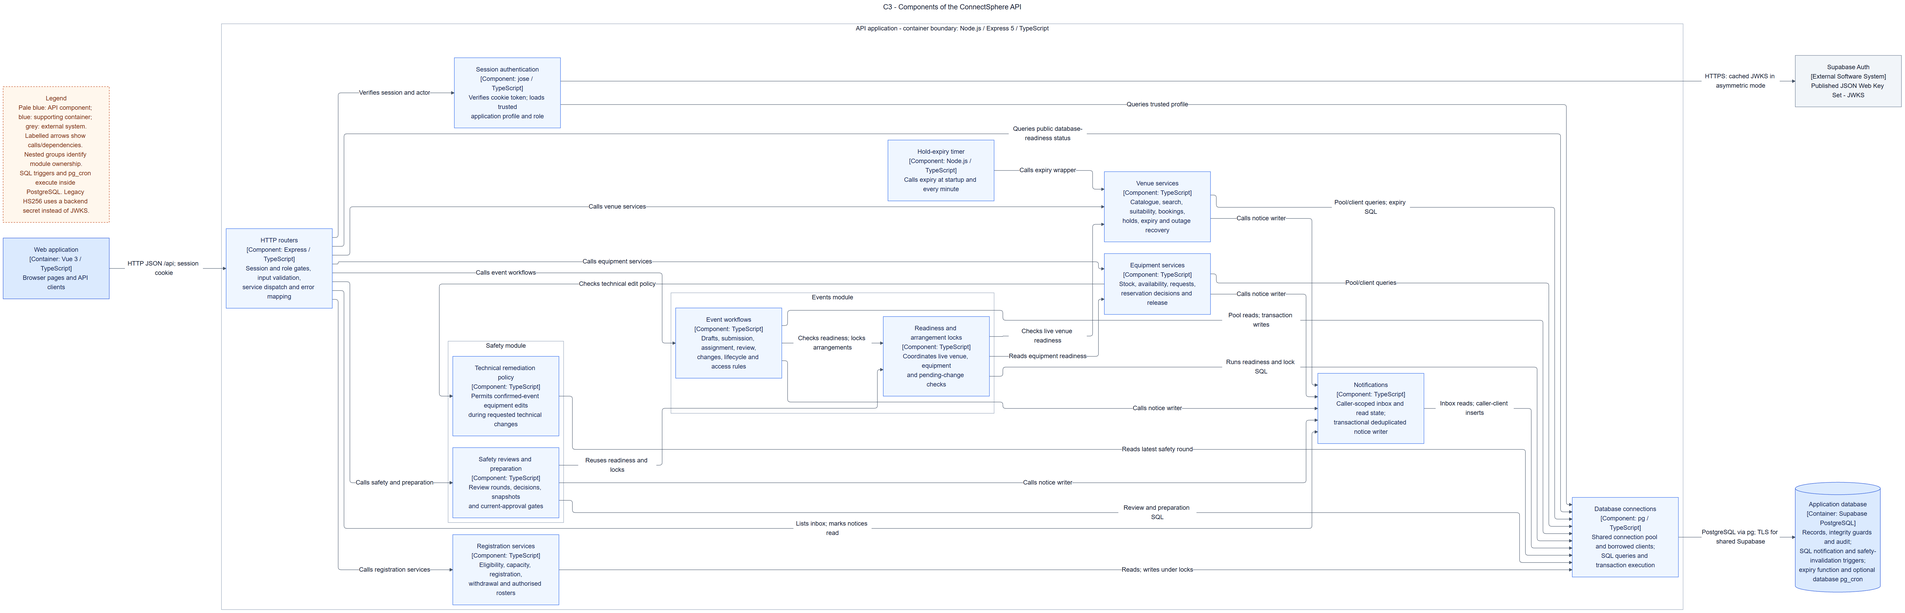
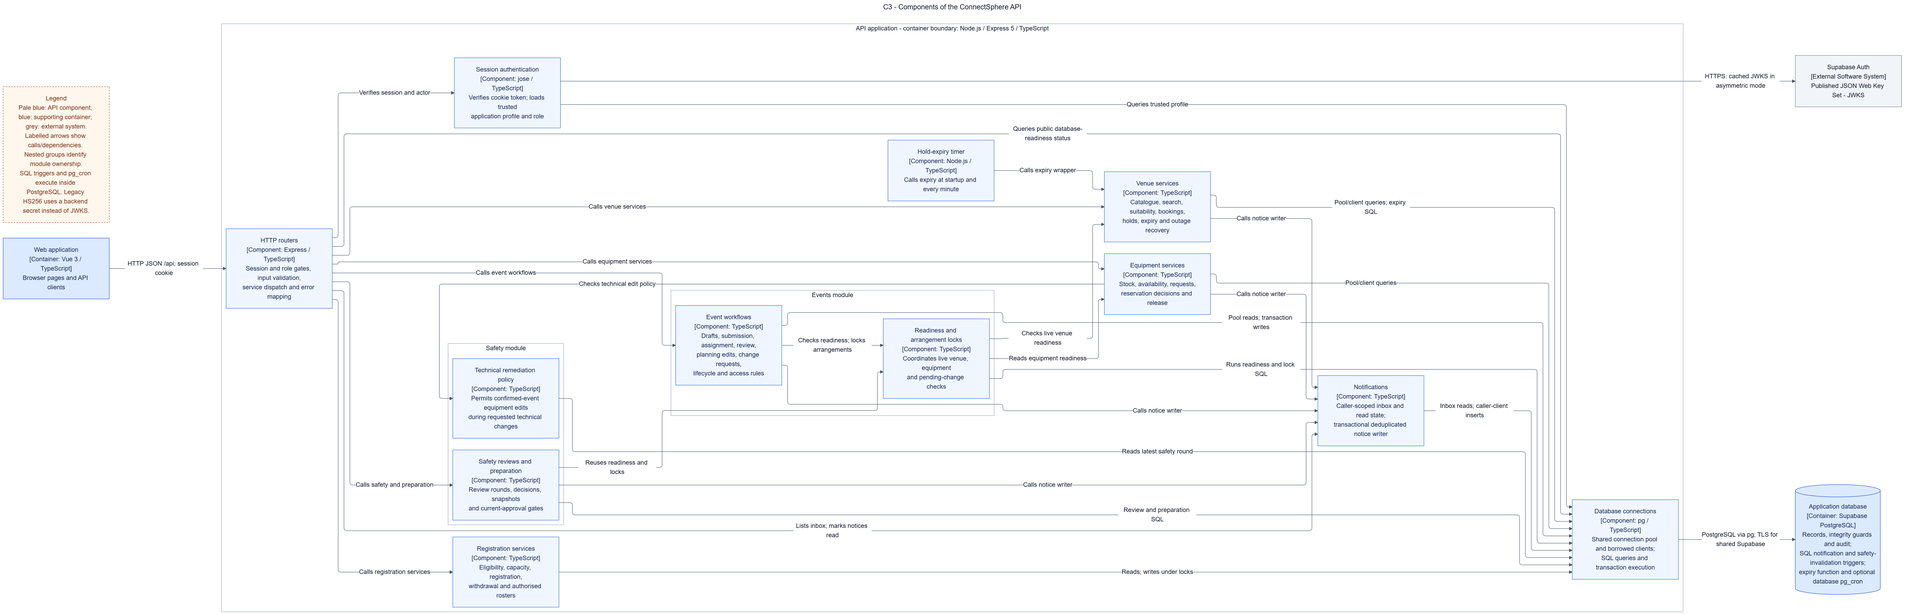
docs(WS2): restructure design report and name change requests in C3
Independent WS2 review of Arvin's package against the Week 4 System
design rubric. Diagrams, API contract and data model were verified
against fb6d8d9 and migrations 001-023 and are unchanged except C3.

- Move the decisions table out of the collapsed historical section
  into a current "Design decisions and trade-offs" section after C3
- Add "Design principles and patterns" with code references
- Add "Customer changes and design impact" for CR-1 to CR-6
- Add "Team input needed" design review fields (DOC-201)
- Add a reading guide; move dated history blocks to the end
- C3: name planning edits and change requests; re-render PNG/SVG
  with c4-audit-20261105/render.py (Mermaid CLI 11.17.1)
- Fix the broken S3-E30 evidence link; note the full ERD shows key
  columns only

diff --git a/docs/architecture/README.md b/docs/architecture/README.md
@@ -2,18 +2,7 @@
 
 **Current implementation — reviewed 6 November 2026.** The current branch implements all seven application roles and the event lifecycle from draft submission through assignment, review, arrangements, confirmation, safety/preparation, registration, cancellation and completion. The views below describe the mounted application in `backend/src/app.ts` and `frontend/src/app/router.ts`; they do not establish story acceptance or code-freeze readiness. Migration 023 adds permanent safety-approval invalidation and supplemental context baselines. Its shared application and the three focused connected regression checks passed on 1 November in `MAN-20261101-03`; see the [rollout checkpoint](../../database/README.md#1-november-2026--shared-023-rollout-and-connected-retests). See the [API contract](api-contract.md), [current database model](../database-diagram.md), and [test evidence](../testing/test-evidence.md) for the separate automated, connected and release-review boundaries.
 
-<details>
-<summary>Earlier implementation checkpoints — retained as dated history</summary>
-
-**Current implementation — 25 October 2026.** Lead assignment/reassignment and notification integration, strict search/draft validation, catalogue repair, buffers, outage recovery and holds are implemented. The current closeout branch repairs confirmed-event replacement controls, outage/hold concurrency, PostgreSQL date bounds and Singapore/buffer-warning displays. The shared venue gate is documented below. Shared migration 013 is verified; the approved Supabase expiry job is enabled and successful runs observed. Earlier dated pending-implementation/rollout notes retain their original checkpoint. Automated evidence and team-reported manual results are separate from review acceptance; final lifecycle/safety consumers remain Sprint 4 work.
-
-**Arvin KAN-78/KAN-34 integration readback — 25 October 2026.** Current source is `main` `96a0d10`. KAN-78 is implemented and integrated through PR #48/#54: shared venue duration columns are migration 009, occupied endpoints/approval snapshots/warnings are **012**, and live holds extend them in **013**. Five venue consumers use buffered intervals; catalogue saves report affected bookings without changing their status/time. KAN-81 permits later outages over approved bookings and flags buffered overlaps; outage-only warnings use recovery instead of the decision queue. The dated pre-integration migration/dependency statements below retain their original checkpoint and are superseded for these details. [Current verification](../testing/test-evidence.md#25-october-2026--arvin-kan-78-and-kan-34-documentation-reconciliation) is automated evidence; hosted acceptance remains Not executed. The class, planning ERD and workflow sequence exports are refreshed from the current inline Mermaid sources in this update.
-
-**25 October 2026 documentation follow-up.** [Reported original-story manual results](../testing/test-evidence.md#25-october-2026--reported-manual-results-for-original-stories) now accompany the implementation and automated evidence for the seven original stories. This update corrects current implementation/setup prose, keeps dated design and test history, and does not change diagram structure or claim a new combined diagram export.
-
-**27 October 2026 — KAN-62/KAN-63 rebase reconciliation.** Event cancellation and equipment request/review routes are mounted in the backend, and the Technical Support request queue has a frontend route. Equipment cancellation reuses migration 015's immutable `released_*` audit fields and event-terminal trigger; migration 018 adds the event cancellation record and equipment planning fields. Updated inline C3/class/sequence design below. Automated checks passed; PostgreSQL integration and connected acceptance remain **Not executed**. Mermaid CLI is unavailable in this workspace, so existing PNG exports were not regenerated in this follow-up.
-
-</details>
+**How to read this document:** start with the C4 views — [C1 context](#c4-system-context), [C2 containers](#c4-containers) and [C3 components](#c4-components-c3) — then the [design decisions](#design-decisions-and-trade-offs), [principles and patterns](#design-principles-and-patterns) and [customer-change impact](#customer-changes-and-design-impact). Class, sequence and data views follow as supporting detail. Dated history is kept at the end under [Earlier design notes](#earlier-design-notes-historical).
 
 ConnectSphere uses one Git repository, one Vue frontend, one Express backend, Supabase PostgreSQL and Supabase Auth. The backend is a modular monolith: domain modules run in the same process and database transaction boundary. The team selected this structure during Sprint 1 planning to keep development and integration manageable across the six workstreams. Supabase was selected for database hosting on 8 September 2026; its authentication integration is recorded in the 15 September decision log.
 
@@ -22,17 +11,6 @@ ConnectSphere uses one Git repository, one Vue frontend, one Express backend, Su
 Seven roles use the same application with different server-enforced permissions. Organisers manage their own requests; assigned coordinators plan and review events; Coordinator Leads allocate and hand over responsibility without inheriting coordinator decision powers. Venue Staff maintain and decide venue arrangements. Technical Support Staff maintain pooled stock and decide equipment requests. Attendees register for eligible confirmed events and withdraw their own registrations. Safety Officers assess submitted arrangement snapshots, while preparation requires current safety approval and a confirmed, ready event.
 
 Initial submission leaves a request unassigned for the Lead queue. Approval of the event request, approval of individual venue/equipment arrangements, final event confirmation and safety approval are distinct transitions. The application preserves this separation in its pages, APIs, audit records and notifications.
-
-<details>
-<summary>Earlier context and acceptance checkpoints — retained verbatim</summary>
-
-The context diagram includes the KAN-79 Coordinator Lead role and KAN-65 reassignment implemented on **19 October 2026**, with KAN-64 notifications integrated on **21 October 2026**. The Safety Officer remains planned under KAN-84. KAN-79 replaces automatic initial allocation with a Lead queue: valid submissions remain unassigned, Leads allocate available coordinators, and ordinary coordinators manage only their assigned events. KAN-65 adds versioned handover with a required reason and retained history; the new coordinator gains assignment-derived access and the old coordinator loses it. Separate basic oversight endpoints do not grant Leads review, booking-decision or attendee-roster authority. Migration 007 and Lead login were reported successful. The 25 October original-story report records successful localhost manual scenarios for KAN-79/KAN-65; deployed-environment acceptance remains **Not assessed**. KAN-64 writes the relevant in-app notices in the same transaction as the action. Migration 008 adds notification inbox fields and 009 adds venue buffers. The 25 October KAN-60/KAN-83 run records a shared Supabase ledger check showing migrations 001–013 applied; that ledger check is distinct from the earlier structural schema audit. No schema change is added for KAN-65. See the [change register](../requirements/change-requests.md) and [test evidence](../testing/test-evidence.md).
-
-Implemented request workflows also include draft creation/editing, clarification, review decisions and read-only status history. KAN-51 provides the internal availability calendar and KAN-12 venue search is integrated. KAN-8 adds staff booking decisions and assigned-coordinator outcomes. KAN-52 provides read-only event-specific suitability and KAN-55 provides Venue Staff block management. KAN-53 booking submission was integrated on 5 October with current reservation/block checks. Catalogue maintenance and the KAN-50 stale-save repair are merged, including PR #56 on 25 October. KAN-77 stores and exposes setup/turnaround minutes; KAN-78 applies buffered occupancy and affected-booking warnings. These implementation updates do not supply another owner's missing acceptance results. KAN-64 provides an in-app inbox for submission, clarification, review, assignment and venue-decision outcomes. KAN-9 availability, KAN-26 saved equipment reservations, KAN-63 request entry/review and KAN-62 event cancellation are implemented in source. KAN-18 stock editing, attendee registration, significant event changes and event completion remain separate workflows; KAN-80 owns notification triggers beyond the reservation/cancellation slices implemented so far. Migration 018 adds request/cancellation state after the migration-015 equipment release model. The [current sprint plan](../scrum/sprint-04/planning.md) separates existing repairs from new customer requirements. The test evidence register separates local automated results from the hosted Sprint 1 observations below; the diagrams do not imply acceptance. Venue Staff, Technical Support Staff and Attendee accounts need trusted Supabase Auth provisioning and an `app_users.supabase_user_id` mapping before connected role workflows can be tested.
-
-The organiser's approved outcome and rejected status/reason remained visible after refresh in the 17 September hosted check (MAN-20260917-01). Reopening a request URL after sign-out showed a sign-in prompt without request details or the review reason (MAN-20260917-02). Draft and Submitted detail statuses and their no-decision messages also passed (MAN-20260917-03). A second organiser received the unavailable/no-permission message for the first organiser's request and saw an empty request list (MAN-20260917-04). Opening `/events` directly after signing out showed a sign-in prompt without request names or statuses (MAN-20260917-05). The request list showed matching Draft, Submitted, Rejected and Approved labels, and Draft/Submitted detail statuses and review messages remained correct after refresh (MAN-20260917-06). The remaining submission-to-status check is in the [test evidence](../testing/test-evidence.md).
-
-</details>
 
 ```mermaid
 ---
@@ -130,7 +108,7 @@ flowchart LR
     routes["HTTP routers<br/>[Component: Express / TypeScript]<br/>Session and role gates, input validation,<br/>service dispatch and error mapping"]:::component
     auth["Session authentication<br/>[Component: jose / TypeScript]<br/>Verifies cookie token; loads trusted<br/>application profile and role"]:::component
     subgraph eventModule["Events module"]
-      events["Event workflows<br/>[Component: TypeScript]<br/>Drafts, submission, assignment, review,<br/>changes, lifecycle and access rules"]:::component
+      events["Event workflows<br/>[Component: TypeScript]<br/>Drafts, submission, assignment, review,<br/>planning edits, change requests,<br/>lifecycle and access rules"]:::component
       readiness["Readiness and arrangement locks<br/>[Component: TypeScript]<br/>Coordinates live venue, equipment<br/>and pending-change checks"]:::component
     end
     venues["Venue services<br/>[Component: TypeScript]<br/>Catalogue, search, suitability, bookings,<br/>holds, expiry and outage recovery"]:::component
@@ -200,6 +178,58 @@ Safety decisions retain immutable reviewed snapshots. Current approval requires 
 KAN-9's equipment service has its own minimal approved/confirmed event projection rather than widening shared event-detail access. One SQL statement reads source requirements, saved requests, stock and relevant reservations; the service validates the source version and calculates advisory quantities without joining a write transaction or notification flow. What-if input is explicitly unsaved; saved input reloads persisted lines and excludes only its own reserved IDs. Migration 014 provides damaged/maintenance quantities. KAN-26 uses a separate mutation service for full saved requests on approved events, locking current source/pools/lines before checking capacity and writing notices. Migration 015 protects operational stock, immutable allocation/release history and one-time terminal release. KAN-63 adds coordinator request entry and Technical Support review, using explicit manual release metadata for cancellation/replacement. KAN-62 changes event status in the same transaction as its audit and notices; the migration-015 trigger releases RESERVED equipment while KAN-62 cancels remaining REQUESTED/REJECTED lines. Migration 018 adds the remaining event/request planning state.
 
 </details>
+
+## Design decisions and trade-offs
+
+Each row records a significant choice, why it was made, what it costs, and where it is implemented. Earlier checkpoints are retained under [Earlier design notes](#earlier-design-notes-historical).
+
+| Current choice | Reason and tradeoff | Implementation boundary |
+| --- | --- | --- |
+| One modular monolith and database | Cross-domain actions can share a transaction and local setup stays manageable. Modules are not independently deployed or scaled. | `backend/src/app.ts`, `runtime-app.ts`; explicit services under `modules/` |
+| TypeScript with runtime boundary validation | Shared language reduces translation, but static types cannot validate HTTP data or enforce permissions. | Router/input modules plus trusted server policies |
+| Supabase identity with local application profiles | Signing verification proves identity; the current `app_users` row determines role and relationships. Session expiry and logout semantics remain explicit. | `modules/auth/supabase.ts`, `router.ts`, `session.ts` |
+| Explicit SQL, transactions and database invariants | Ordered locks and constraints protect competing writes; SQL and migration maintenance require deliberate review. This is not an ORM repository layer. | Workflow services, `workflow-support.ts`, forward-only checksummed migrations |
+| Optimistic revisions plus locked revalidation | Stale forms fail without overwriting newer state; locks protect the final decision. A previously successful advisory read cannot authorize a later write. | Event revisions, assignment version, booking/source fingerprints and equipment plan revision |
+| Current assignment controls event authority | A handover changes access immediately while preserving assignment history. Lead oversight uses limited projections instead of coordinator powers. | Assignment service and shared event-access policies |
+| Advisory assessments separate from binding decisions | Suitability and equipment availability explain current constraints; reservation/confirmation/safety check live state again. Suitability does not silently impose a new automatic capacity-refusal policy. | Venue suitability, equipment availability, booking/reservation and readiness services |
+| Atomic in-app outcome notices | Business outcomes and deduplicated notices commit or roll back together. Inbox reads recheck current access; there is no email delivery service or outbox worker. | Notification writer, outcome triggers and inbox service |
+| Independent venue arrangements with shared readiness | Each booking retains its own interval, layout, cancellation/replacement and decision. Event confirmation aggregates live arrangement requirements. | Venue booking services and `eventReadiness` |
+| Versioned safety evidence and permanent invalidation | Decisions remain immutable; changes after approval require a fresh round even if values are restored. Migration 023 cannot reconstruct already-restored pre-upgrade changes. | Safety service, migrations 021–023 and preparation gate |
+| Database-clock holds with idempotent expiry | Reads stop counting expired holds immediately. API timer and `pg_cron` may safely call the same function; late cleanup cannot extend a hold. | Hold expiry function and `hold-expiry-scheduler.ts` |
+| Frontend responses belong to their initiating context | Route/account changes discard stale reads and writes. Failed write reconciliation disables decisions until current server state is known. | Session generation and safety/planning page request guards |
+
+Current lifecycle transitions cover `DRAFT`, `SUBMITTED`, `UNDER_REVIEW`, `CLARIFICATION_REQUESTED`, `APPROVED`, `REJECTED`, `CONFIRMED`, `CANCELLED` and `COMPLETED`. Initial approval accepts the event request; confirmation requires ready arrangements; preparation additionally requires current safety approval. Cancellation and completion retain history and release relevant allocations rather than deleting planning records.
+
+## Design principles and patterns
+
+| Principle or pattern | Where it is applied | Why it was chosen |
+| --- | --- | --- |
+| Modular monolith with domain modules | `backend/src/modules/{auth,events,venues,equipment,registrations,safety,notifications}`; one Express process and one database | Cross-domain actions (confirmation, cancellation, safety) can share one transaction; each module still owns its rules and SQL |
+| Layered router → service → SQL | Routers wrap handlers in `workflowRoute` (`events/workflow-http.ts`) for session, role and input checks; services enforce business rules; parameterized SQL through `pg` | Transport concerns stay out of business rules, and the same service is reused by several routes and tests |
+| Dependency injection | `createApp` (`app.ts`) and every `create*Router(dependencies)` receive their database and auth dependencies | Unit and integration tests replace the database or identity provider without changing production code |
+| Pure rule modules (policy objects) | `suitability-rules.ts`, `availability-rules.ts`, `stock-rules.ts`, `registration-rules.ts`, `planning-edit-policy.ts`, `safety/remediation.ts` | Deterministic decisions are isolated from I/O, so they are unit tested directly and reused by reads and writes |
+| Optimistic concurrency with revision tokens | `event_requests.revision` (migration 016), `equipment_types.stock_revision` (020); clients send `expectedRevision` | A stale form fails with a conflict instead of overwriting newer data |
+| Pessimistic row locks in a fixed order | `lockEventRequest` (`events/workflow-support.ts`), `events/arrangement-locks.ts`; `FOR UPDATE` in 19 service files | Concurrent bookings, reservations and confirmations cannot both succeed against the same capacity |
+| Unit of work for business change and notification | `inActorTransaction` (`events/workflow-support.ts`); the notice writer (`notifications/notify.ts`) takes the caller's transaction client; migration 019 triggers | An outcome and its notice commit or roll back together, so users are never notified of a change that did not happen |
+| Idempotent operations | `expire_venue_holds()` called by the API timer and `pg_cron`; replayed withdrawals return `changed: false`; mark-as-read keeps the first `readAt` | Retries and duplicate callers are safe without extra coordination |
+| Advisory read vs binding write | Suitability and equipment availability are read-only; booking, reservation, confirmation and safety writes re-check live state under locks | A successful check never authorizes a later write on its own |
+| Immutable audit and snapshot evidence | `event_status_history`, `equipment_stock_changes`, safety review fingerprints and baselines (021–023), `safety_approval_invalidations` | Decisions remain explainable after later changes; restoring a value cannot silently restore an approval |
+| Defence in depth | Server role gates plus service ownership checks; database constraints and triggers; Data API disabled and row-level security enabled (migration 002) | A missed check in one layer is still blocked by another |
+
+## Customer changes and design impact
+
+The six Week 7 customer changes were received on **2 October 2026** and are traced to stories in the [change register](../requirements/change-requests.md). The table shows how the existing structure absorbed each change.
+
+| Change | Design response | Where it shows in the design | What was preserved |
+| --- | --- | --- | --- |
+| **CR-1** Setup and turnaround buffers (KAN-77, KAN-78) | Venues store buffer minutes; occupancy and conflict checks use buffered intervals, with booking-time snapshots | Migrations 009 and 012; venue services; [venue write locking](#venue-writers---gates-precede-booking-and-event-row-locks) | Existing access rules and booking decisions; event-only times remain visible |
+| **CR-2** Booked venue becomes unavailable (KAN-81) | An outage over approved bookings is recorded with impact rows and recovery actions instead of being refused | Migration 010; `venues/outage-impact.ts`; [venue outage sequence](#venue-outage---preserve-approved-booking-and-recover-arrangements) | Approved history is kept; an outage is not a silent cancellation; unaffected arrangements are untouched |
+| **CR-3** Independent venue arrangements (KAN-82) | Each booking has its own interval, layout, cancellation and linked replacement; confirmation aggregates live readiness | Migration 011; readiness and arrangement locks in C3; [event confirmation](#event-confirmation---live-readiness-under-shared-arrangement-locks) | Acting on one arrangement never changes another; event-wide cancellation stays separate |
+| **CR-4** Expiring temporary holds (KAN-83) | Explicit live holds with a database-clock deadline and idempotent expiry | Migration 013; hold-expiry timer in C2/C3; [venue hold sequence](#venue-temporary-hold---deadline-and-automatic-expiry) | Ordinary pending requests still reserve nothing; late cleanup cannot extend a hold |
+| **CR-5** Coordinator Lead allocation (KAN-79, KAN-65) | New role; submissions enter a Lead queue; versioned handover with a required reason | Migration 007; Coordinator Lead in C1; [lead allocation sequence](#lead-allocation-and-handover---versioned-assignment-history) | Original automatic assignment (KAN-29) is kept as history; current assignment controls access |
+| **CR-6** Safety review (KAN-84) | New Safety Officer role; review rounds bound to an arrangement fingerprint; preparation requires current approval; later changes invalidate approval permanently | Migrations 021–023; safety module and remediation policy in C3; [safety review sequence](#safety-review-rounds-and-preparation---current-approval-required) | Safety approval stays distinct from initial approval and advisory suitability |
+
+The modular structure meant each change landed mainly in one module plus shared readiness, which is the trade-off recorded in [Design decisions and trade-offs](#design-decisions-and-trade-offs).
 
 ## Current design reference — 6 November 2026
 
@@ -1868,12 +1898,50 @@ erDiagram
 | Event completion - ended confirmed event and equipment release | [PNG](exports/seq-event-completion.png) | [SVG](exports/seq-event-completion.svg) |
 | Significant planning change - reviewed revision and arrangement impact | [PNG](exports/seq-planning-change.png) | [SVG](exports/seq-planning-change.svg) |
 
-Large all-record views are intended for zooming; the smaller domain views are provided for reading and presentation. Mermaid source lives next to the relevant section and is also preserved as `.mmd` in the dated audit evidence. PNG and SVG exports are rendered from the same source; the final audit records source/output hashes and checks labels and connection counts.
+The full physical model shows key and foreign-key columns only; every column is listed in the [column dictionary](../database-diagram.md#column-dictionary). Large all-record views are intended for zooming; the smaller domain views are provided for reading and presentation. Mermaid source lives next to the relevant section and is also preserved as `.mmd` in the dated audit evidence. PNG and SVG exports are rendered from the same source; the final audit records source/output hashes and checks labels and connection counts.
+
+## Team input needed
+
+Design review fields for WS2 (DOC-201). Editor: Arvin. Independent reviewer: Irfan.
+
+| Design review field | Value |
+| --- | --- |
+| Reviewed by / actual date | Irfan, 6 November 2026 |
+| What was checked | C1–C3 against `frontend/src`, `backend/src/modules` and `backend/src/app.ts` at `fb6d8d9`; the data model against migrations 001–023 (24 tables, every column, 55 foreign keys); all 85 API contract endpoints against the mounted routes; exported images and 482 relative links |
+| Factual correction or diagram limitation found | C3 did not name change requests (label corrected); the decisions table was inside the collapsed historical section (moved up); no customer-change design mapping (added); one broken evidence link (S3-E30, corrected); the full ERD and C3 images are large and are best read as SVG or zoomed |
+| Source/evidence for any correction | Review comments on PR #81 in `MochaLxtte/ConnectSphere` |
+| Final approval | Pending — recorded on PR #81 |
 
 ## Earlier design notes (historical)
 
 <details>
 <summary>Preserved design history from before the 6 November update; current diagrams above take precedence</summary>
+
+### Earlier implementation and context checkpoints — moved from the top on 6 November 2026
+
+<details>
+<summary>Earlier implementation checkpoints — retained as dated history</summary>
+
+**Current implementation — 25 October 2026.** Lead assignment/reassignment and notification integration, strict search/draft validation, catalogue repair, buffers, outage recovery and holds are implemented. The current closeout branch repairs confirmed-event replacement controls, outage/hold concurrency, PostgreSQL date bounds and Singapore/buffer-warning displays. The shared venue gate is documented below. Shared migration 013 is verified; the approved Supabase expiry job is enabled and successful runs observed. Earlier dated pending-implementation/rollout notes retain their original checkpoint. Automated evidence and team-reported manual results are separate from review acceptance; final lifecycle/safety consumers remain Sprint 4 work.
+
+**Arvin KAN-78/KAN-34 integration readback — 25 October 2026.** Current source is `main` `96a0d10`. KAN-78 is implemented and integrated through PR #48/#54: shared venue duration columns are migration 009, occupied endpoints/approval snapshots/warnings are **012**, and live holds extend them in **013**. Five venue consumers use buffered intervals; catalogue saves report affected bookings without changing their status/time. KAN-81 permits later outages over approved bookings and flags buffered overlaps; outage-only warnings use recovery instead of the decision queue. The dated pre-integration migration/dependency statements below retain their original checkpoint and are superseded for these details. [Current verification](../testing/test-evidence.md#25-october-2026--arvin-kan-78-and-kan-34-documentation-reconciliation) is automated evidence; hosted acceptance remains Not executed. The class, planning ERD and workflow sequence exports are refreshed from the current inline Mermaid sources in this update.
+
+**25 October 2026 documentation follow-up.** [Reported original-story manual results](../testing/test-evidence.md#25-october-2026--reported-manual-results-for-original-stories) now accompany the implementation and automated evidence for the seven original stories. This update corrects current implementation/setup prose, keeps dated design and test history, and does not change diagram structure or claim a new combined diagram export.
+
+**27 October 2026 — KAN-62/KAN-63 rebase reconciliation.** Event cancellation and equipment request/review routes are mounted in the backend, and the Technical Support request queue has a frontend route. Equipment cancellation reuses migration 015's immutable `released_*` audit fields and event-terminal trigger; migration 018 adds the event cancellation record and equipment planning fields. Updated inline C3/class/sequence design below. Automated checks passed; PostgreSQL integration and connected acceptance remain **Not executed**. Mermaid CLI is unavailable in this workspace, so existing PNG exports were not regenerated in this follow-up.
+
+</details>
+
+<details>
+<summary>Earlier context and acceptance checkpoints — retained verbatim</summary>
+
+The context diagram includes the KAN-79 Coordinator Lead role and KAN-65 reassignment implemented on **19 October 2026**, with KAN-64 notifications integrated on **21 October 2026**. The Safety Officer remains planned under KAN-84. KAN-79 replaces automatic initial allocation with a Lead queue: valid submissions remain unassigned, Leads allocate available coordinators, and ordinary coordinators manage only their assigned events. KAN-65 adds versioned handover with a required reason and retained history; the new coordinator gains assignment-derived access and the old coordinator loses it. Separate basic oversight endpoints do not grant Leads review, booking-decision or attendee-roster authority. Migration 007 and Lead login were reported successful. The 25 October original-story report records successful localhost manual scenarios for KAN-79/KAN-65; deployed-environment acceptance remains **Not assessed**. KAN-64 writes the relevant in-app notices in the same transaction as the action. Migration 008 adds notification inbox fields and 009 adds venue buffers. The 25 October KAN-60/KAN-83 run records a shared Supabase ledger check showing migrations 001–013 applied; that ledger check is distinct from the earlier structural schema audit. No schema change is added for KAN-65. See the [change register](../requirements/change-requests.md) and [test evidence](../testing/test-evidence.md).
+
+Implemented request workflows also include draft creation/editing, clarification, review decisions and read-only status history. KAN-51 provides the internal availability calendar and KAN-12 venue search is integrated. KAN-8 adds staff booking decisions and assigned-coordinator outcomes. KAN-52 provides read-only event-specific suitability and KAN-55 provides Venue Staff block management. KAN-53 booking submission was integrated on 5 October with current reservation/block checks. Catalogue maintenance and the KAN-50 stale-save repair are merged, including PR #56 on 25 October. KAN-77 stores and exposes setup/turnaround minutes; KAN-78 applies buffered occupancy and affected-booking warnings. These implementation updates do not supply another owner's missing acceptance results. KAN-64 provides an in-app inbox for submission, clarification, review, assignment and venue-decision outcomes. KAN-9 availability, KAN-26 saved equipment reservations, KAN-63 request entry/review and KAN-62 event cancellation are implemented in source. KAN-18 stock editing, attendee registration, significant event changes and event completion remain separate workflows; KAN-80 owns notification triggers beyond the reservation/cancellation slices implemented so far. Migration 018 adds request/cancellation state after the migration-015 equipment release model. The [current sprint plan](../scrum/sprint-04/planning.md) separates existing repairs from new customer requirements. The test evidence register separates local automated results from the hosted Sprint 1 observations below; the diagrams do not imply acceptance. Venue Staff, Technical Support Staff and Attendee accounts need trusted Supabase Auth provisioning and an `app_users.supabase_user_id` mapping before connected role workflows can be tested.
+
+The organiser's approved outcome and rejected status/reason remained visible after refresh in the 17 September hosted check (MAN-20260917-01). Reopening a request URL after sign-out showed a sign-in prompt without request details or the review reason (MAN-20260917-02). Draft and Submitted detail statuses and their no-decision messages also passed (MAN-20260917-03). A second organiser received the unavailable/no-permission message for the first organiser's request and saw an empty request list (MAN-20260917-04). Opening `/events` directly after signing out showed a sign-in prompt without request names or statuses (MAN-20260917-05). The request list showed matching Draft, Submitted, Rejected and Approved labels, and Draft/Submitted detail statuses and review messages remained correct after refresh (MAN-20260917-06). The remaining submission-to-status check is in the [test evidence](../testing/test-evidence.md).
+
+</details>
 
 ## Class diagram
 
@@ -2380,7 +2448,7 @@ The request row is both the requirement and, while `RESERVED`, its reservation. 
 
 ## Diagram exports
 
-**5 November 2026 — C4 accuracy correction.** C1, C2 and C3 were checked against application source and migrations at `main` `fb6d8d93f721b114accc9857a05d62e859987e23`. The revised views contain 29 functional blocks, 43 labelled relationships, three legends and four system/container/module boundaries. Every functional block, relationship and boundary has a source reference in the [element-by-element audit](../scrum/sprint-03/evidence/c4-audit-20261105/audit.json), registered as [S3-E30](../scrum/sprint-03/evidence/README.md#s3-e30--c4-accuracy-audit-and-exports-5-november-2026). The exported titles, types, technology labels and legends follow the [C4 notation recommendations](https://c4model.com/diagrams/notation); C3 scopes its components to the API container. The current API contract and database model were cross-checked for these boundaries; this is a documentation correction with no endpoint or schema change.
+**5 November 2026 — C4 accuracy correction.** C1, C2 and C3 were checked against application source and migrations at `main` `fb6d8d93f721b114accc9857a05d62e859987e23`. The revised views contain 29 functional blocks, 43 labelled relationships, three legends and four system/container/module boundaries. Every functional block, relationship and boundary has a source reference in the [element-by-element audit](../scrum/sprint-03/evidence/c4-audit-20261105/audit.json), with its rendering checks in the [evidence folder](../scrum/sprint-03/evidence/c4-audit-20261105/render-validation.json) (the S3-E30 register entry was not included in the 6 November package). The exported titles, types, technology labels and legends follow the [C4 notation recommendations](https://c4model.com/diagrams/notation); C3 scopes its components to the API container. The current API contract and database model were cross-checked for these boundaries; this is a documentation correction with no endpoint or schema change.
 
 | View | PNG export | Scalable SVG export | Functional blocks / relationships |
 | --- | --- | --- | --- |
@@ -2636,24 +2704,9 @@ service responsibilities; `event_registrations` is unique per attendee and event
 
 Numbered migrations define the reproducible local and CI schema; coordinate equivalent dashboard changes in the shared Supabase project with Arvin. The ERD omits housekeeping fields, migration metadata and unused legacy auth fields/tables. Credentials are managed by Supabase Auth; the nullable historical `password_hash` field is not used by the current authentication code. Role checks, event ownership, transition validity and atomic decisions belong to services, with database constraints providing additional integrity.
 
-## Decisions and tradeoffs
+## Decisions and tradeoffs (earlier checkpoints)
 
-| Current choice | Reason and tradeoff | Implementation boundary |
-| --- | --- | --- |
-| One modular monolith and database | Cross-domain actions can share a transaction and local setup stays manageable. Modules are not independently deployed or scaled. | `backend/src/app.ts`, `runtime-app.ts`; explicit services under `modules/` |
-| TypeScript with runtime boundary validation | Shared language reduces translation, but static types cannot validate HTTP data or enforce permissions. | Router/input modules plus trusted server policies |
-| Supabase identity with local application profiles | Signing verification proves identity; the current `app_users` row determines role and relationships. Session expiry and logout semantics remain explicit. | `modules/auth/supabase.ts`, `router.ts`, `session.ts` |
-| Explicit SQL, transactions and database invariants | Ordered locks and constraints protect competing writes; SQL and migration maintenance require deliberate review. This is not an ORM repository layer. | Workflow services, `workflow-support.ts`, forward-only checksummed migrations |
-| Optimistic revisions plus locked revalidation | Stale forms fail without overwriting newer state; locks protect the final decision. A previously successful advisory read cannot authorize a later write. | Event revisions, assignment version, booking/source fingerprints and equipment plan revision |
-| Current assignment controls event authority | A handover changes access immediately while preserving assignment history. Lead oversight uses limited projections instead of coordinator powers. | Assignment service and shared event-access policies |
-| Advisory assessments separate from binding decisions | Suitability and equipment availability explain current constraints; reservation/confirmation/safety check live state again. Suitability does not silently impose a new automatic capacity-refusal policy. | Venue suitability, equipment availability, booking/reservation and readiness services |
-| Atomic in-app outcome notices | Business outcomes and deduplicated notices commit or roll back together. Inbox reads recheck current access; there is no email delivery service or outbox worker. | Notification writer, outcome triggers and inbox service |
-| Independent venue arrangements with shared readiness | Each booking retains its own interval, layout, cancellation/replacement and decision. Event confirmation aggregates live arrangement requirements. | Venue booking services and `eventReadiness` |
-| Versioned safety evidence and permanent invalidation | Decisions remain immutable; changes after approval require a fresh round even if values are restored. Migration 023 cannot reconstruct already-restored pre-upgrade changes. | Safety service, migrations 021–023 and preparation gate |
-| Database-clock holds with idempotent expiry | Reads stop counting expired holds immediately. API timer and `pg_cron` may safely call the same function; late cleanup cannot extend a hold. | Hold expiry function and `hold-expiry-scheduler.ts` |
-| Frontend responses belong to their initiating context | Route/account changes discard stale reads and writes. Failed write reconciliation disables decisions until current server state is known. | Session generation and safety/planning page request guards |
-
-Current lifecycle transitions cover `DRAFT`, `SUBMITTED`, `UNDER_REVIEW`, `CLARIFICATION_REQUESTED`, `APPROVED`, `REJECTED`, `CONFIRMED`, `CANCELLED` and `COMPLETED`. Initial approval accepts the event request; confirmation requires ready arrangements; preparation additionally requires current safety approval. Cancellation and completion retain history and release relevant allocations rather than deleting planning records.
+The current decisions table now appears in [Design decisions and trade-offs](#design-decisions-and-trade-offs). The earlier checkpoints below are retained as history.
 
 <details>
 <summary>Earlier design and scope checkpoints — retained verbatim</summary>
